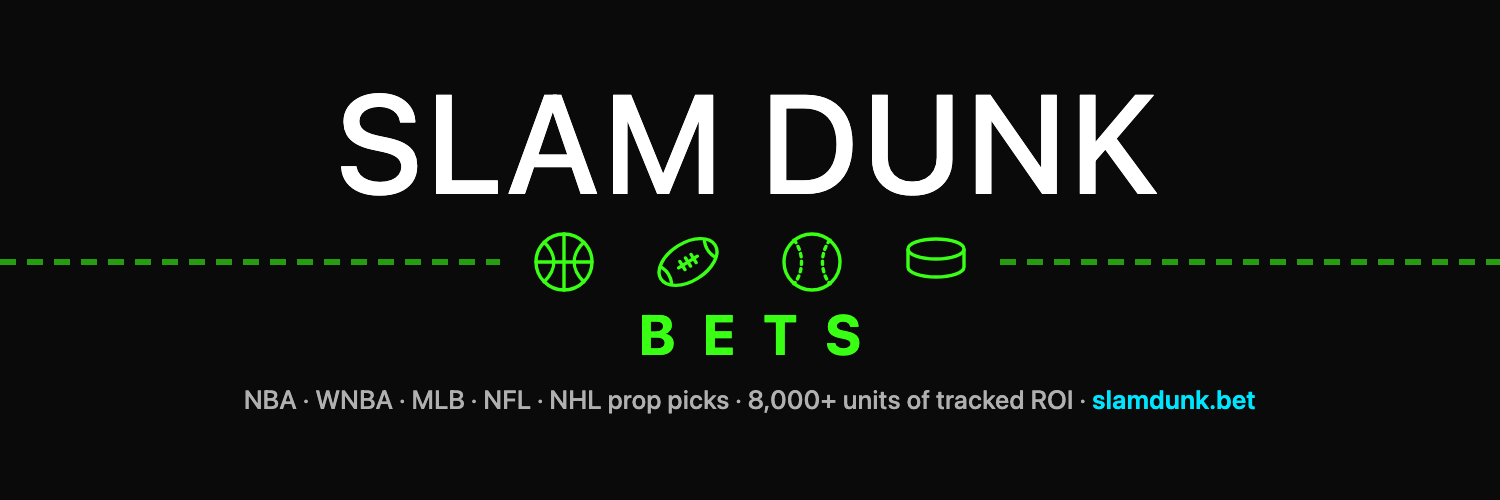
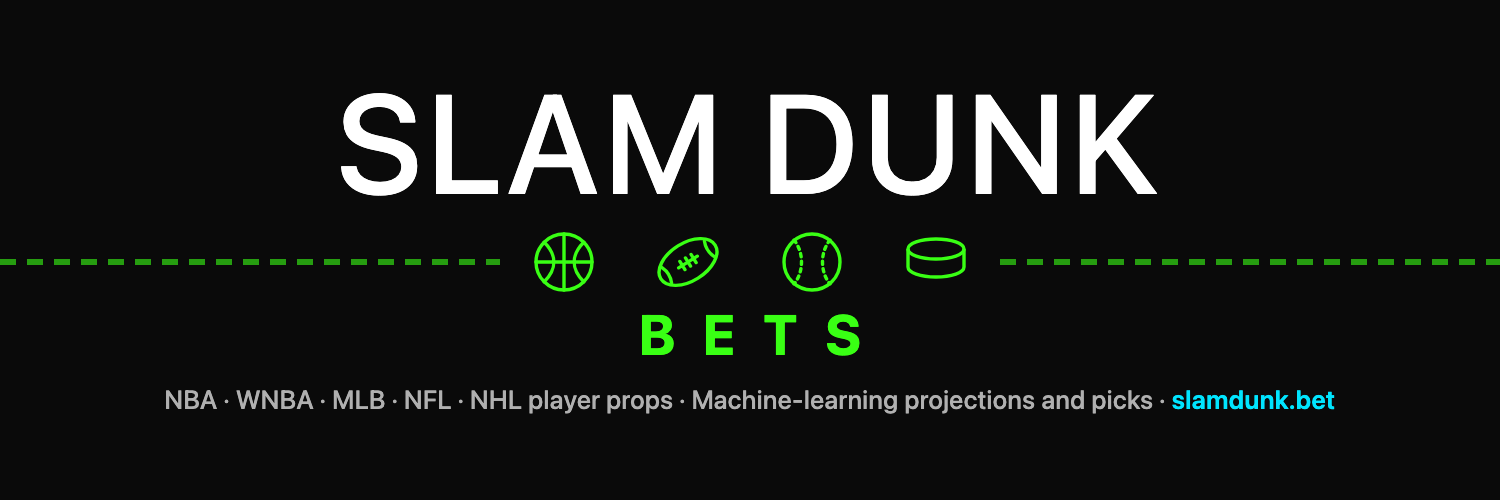
Rework homepage, landing page and share images for X ad review
Replace the ROI headline with a plain description, show the price after
the free trial next to every CTA, add the 21+ / 1-800-GAMBLER line to the
hero and footer, and drop the 8,000+ units claim from the site
description, og-default card and X headers.

Changed region(s): [[0.092, 0.78, 0.8893, 0.84]]

diff --git a/_og/x-header-light.html b/_og/x-header-light.html
@@ -26,5 +26,5 @@
     <svg width="68" height="68" viewBox="-17 -15 34 34"><g fill="none" stroke="#1a9f00" stroke-width="1.7" stroke-linejoin="round"><ellipse cy="-4.5" rx="14" ry="5"></ellipse><path d="M-14 -4.5V4.5A14 5 0 0 0 14 4.5V-4.5"></path></g></svg>
   </div>
   <div class="bets">BETS</div>
-  <div class="tag">NBA · WNBA · MLB · NFL · NHL prop picks · 8,000+ units of tracked ROI · <span class="url">slamdunk.bet</span></div>
+  <div class="tag">NBA · WNBA · MLB · NFL · NHL player props · Machine-learning projections and picks · <span class="url">slamdunk.bet</span></div>
 </div></body></html>

diff --git a/_og/x-header.html b/_og/x-header.html
@@ -26,5 +26,5 @@
     <svg width="68" height="68" viewBox="-17 -15 34 34"><g fill="none" stroke="#39ff14" stroke-width="1.7" stroke-linejoin="round"><ellipse cy="-4.5" rx="14" ry="5"></ellipse><path d="M-14 -4.5V4.5A14 5 0 0 0 14 4.5V-4.5"></path></g></svg>
   </div>
   <div class="bets">BETS</div>
-  <div class="tag">NBA · WNBA · MLB · NFL · NHL prop picks · 8,000+ units of tracked ROI · <span class="url">slamdunk.bet</span></div>
+  <div class="tag">NBA · WNBA · MLB · NFL · NHL player props · Machine-learning projections and picks · <span class="url">slamdunk.bet</span></div>
 </div></body></html>

diff --git a/_og/og-default.html b/_og/og-default.html
@@ -15,7 +15,7 @@
   <img class="logo" src="../images/brand/logo-horizontal-dark.svg" alt="">
   <div>
     <div class="bar"></div>
-    <p class="tag">NBA, WNBA, MLB, NFL &amp; NHL prop picks, backed by 8,000+ units of tracked ROI.</p>
+    <p class="tag">Machine-learning projections and picks for NBA, WNBA, MLB, NFL &amp; NHL player props.</p>
   </div>
   <div class="foot"><span>First baskets · Home runs · NRFI/YRFI · Touchdowns · Goals · Every 30 minutes</span><span class="url">slamdunk.bet</span></div>
 </div></body></html>

diff --git a/agents.md b/agents.md
@@ -120,13 +120,15 @@ The "current" basketball season is the latest with 100+ games in the data, so ea
 
 **Add or update a market page.** Market pages live under `nba/`, `wnba/`, `mlb/`, `nfl/`, `nhl/` (hub = `index.qmd`). Each has a lede, the markets, how we project them, a track record table by season (numbers from the ledgers; `_scripts/roi-chart/season_stats.py` and the per-market summary it prints are the source), a sample alert, `::: {.faq-item}` blocks (the filter emits FAQPage for them on any page), and the Sharpduel CTA. Add new pages to the navbar `menu` in `_quarto.yml` and to the "Picks by sport and market" section of `llms.txt`. The `stats/` and `guides/` folders get the same breadcrumbs (Home > Stats > page). Update the track-record tables after each season along with the FAQ. When the numbers change, also bump `date-modified` in the page frontmatter (it becomes `dateModified` in the JSON-LD and the "Modified" line under the title), update the "Updated <date>, from our graded ledgers" sentence under the table, and rebuild the page's share card.
 
+**Ad-review rules (X, 2026-11).** X reviews the site behind the ads. Keep profit and ROI claims ("8,000+ units") out of the homepage and `free-trial.qmd` heroes, page titles and descriptions, the site description, `og-default.png` and the X header; the track record stays deeper (FAQ, About, market pages, the chart sections). Every "free month" CTA carries the price after the trial and "Cancel anytime" next to it, and the homepage and landing page show "21+ only. Gambling problem? Call 1-800-GAMBLER" in the hero. No "cash in"-style copy.
+
 **Run a paid campaign.** Point ads at `https://slamdunk.bet/free-trial.html` with UTM tags (`?utm_source=x&utm_medium=paid_social&utm_campaign=<name>`), which GA4 picks up on its own. For X conversion tracking, set `X_PIXEL_ID` and `X_CTA_EVENT_ID` at the top of `scripts/site-analytics.js` (from X Ads > Events Manager); every Sharpduel/Whop click then fires that event. Turning the pixel on means updating the "Advertising" section of `privacy.qmd`. X treats picks/tipster services as gambling content, so the ad account needs X's gambling authorization first.
 
 **Edit a page.** Edit the `.qmd` at repo root, preview, commit, publish. Every root page has `title`, `pagetitle` (browser/search title; Quarto appends " – Slam Dunk Bets"), and `description` in its frontmatter. Keep them when editing; write them for any new page. Body sections on root pages use `## ` headings (the title is the H1; never skip to `### `). On `faq.qmd` the question in each `.faq-item` is a `## `; on sport pages, where the items sit under a `## ` section, it is a `### `.
 
-**Change pricing.** Prices live in five places and must match: the table and `schema-offers` block in `subscribe.qmd`, the "How much does it cost?" answer in `faq.qmd`, the key-facts paragraph in `llms.txt`, and the table and fine print in `free-trial.qmd`.
+**Change pricing.** Prices live in these places and must match: the table, `schema-offers` block and the line above the CTA in `subscribe.qmd`, the "How much does it cost?" answer in `faq.qmd`, the key-facts paragraph in `llms.txt`, the table, fine print and `description` in `free-trial.qmd`, and the fine print under both CTAs plus the `description` in `index.qmd`.
 
-**Update the ROI numbers.** The FAQ "What kind of ROI" answer, the `## Track record` line in `llms.txt`, and the headline claim ("8,000+ units", in `index.qmd`, `about.qmd`, `faq.qmd`, `_quarto.yml` description, `SITE_DESC` in `_filters/seo-schema.lua`, and `_og/og-default.html` → regenerate the PNG) all come from the graded ledgers, not from memory. Sources and method:
+**Update the ROI numbers.** The FAQ "What kind of ROI" answer, the `## Track record` line in `llms.txt`, and the headline claim ("8,000+ units", in `about.qmd`, `faq.qmd` and `llms.txt` only) all come from the graded ledgers, not from memory. Sources and method:
 
 - NBA and WNBA season snapshots: `~/Code/adhoc/bet_tracking/<LEAGUE>/<season>/bet_tracking_consolidated.csv` (registry: `slam_dunk_tracking.R` there). Net = sum of `units_standardized_net`; ROI = net / sum of `units_standardized_bet` (voids excluded from the denominator). 2021-22 and 2022-23 are spreadsheets at flat stakes (`Win`/`Loss` outcomes, American `Odds`, `Units` staked); 2021-22 computes to +572 net on 3,349 staked (17.1%), which is what the FAQ and `llms.txt` show. By decision (2026-09-14) the site keeps 2022-23 at +1,610 with its Kelly footnote even though the spreadsheet computes to about +929.
 - The homepage chart `images/home/cumulative_total.png` is built by `_scripts/roi-chart/build.sh` (Python reads the ledgers above, R draws the chart). It covers NBA, WNBA, and every MLB product (home runs, NRFI/YRFI, and the stolen bases, RBI, runs and total bases markets added in September 2026), and it prints every season's net and ROI as it runs. 2022-23 is scaled to the +1,610 basis so the line agrees with the headline; on the raw spreadsheet basis the all-time total is about 680 units lower. Rebuild it whenever the FAQ numbers change, and update the date in its caption in `index.qmd`. For a season recap post, `_scripts/roi-chart/season_stats.py nba|wnba` and `_scripts/roi-chart/mlb_season_stats.py [daily.csv]` print the season's tables (by game type, market, month, book, player, largest wins, projection accuracy), and `_scripts/roi-chart/season.R` draws the season chart with the playoffs shaded from a daily CSV (date, period, units_standardized_net; the MLB script writes it when given a path); the 2026-10 recaps were built this way. Last built 2026-11-01, through 2026-10-31: 8,558 units.
